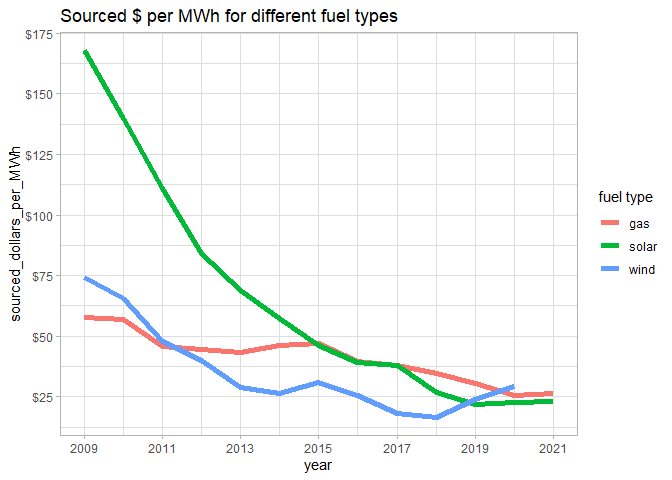
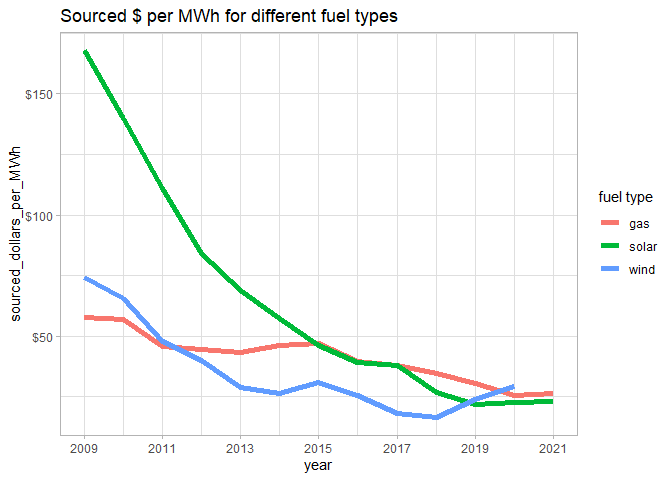
added a new chart

diff --git a/content/2022_05_03_solar_wind_utilities/2022_05_03_solar.html b/content/2022_05_03_solar_wind_utilities/2022_05_03_solar.html
@@ -480,7 +480,7 @@ major y axis interval 25 with minor 5.</p>
 <pre class="r"><code>average_cost_long%&gt;%
   ggplot(aes(year,sourced_dollars_per_MWh, color=fuel_type))+
   geom_line(size=2)+
-  scale_y_continuous(breaks=seq(0, 200, by=25),labels=scales::dollar_format())+
+  scale_y_continuous(breaks=seq(0, 200, by=50),labels=scales::dollar_format())+
   scale_x_continuous(breaks=seq(2009, 2021, by=2))+
   ggtitle(&quot;Sourced $ per MWh for different fuel types&quot;)+
   theme(axis.title.x=element_blank(), 
@@ -492,7 +492,56 @@ major y axis interval 25 with minor 5.</p>
         )+
   labs(color=&quot;fuel type&quot;)+
   theme_light()</code></pre>
[2 lines of base64/hex data omitted]
+## Explore the other data sets</p>
+<p>Starting with capacity, units are in gigawatts:</p>
+<pre class="r"><code>capacity</code></pre>
+<pre><code>## # A tibble: 49 x 7
+##    type   year standalone_prior hybrid_prior standalone_new hybrid_new total_gw
+##    &lt;chr&gt; &lt;dbl&gt;            &lt;dbl&gt;        &lt;dbl&gt;          &lt;dbl&gt;      &lt;dbl&gt;    &lt;dbl&gt;
+##  1 Solar  2014             25.1          0             19.5        0       44.6
+##  2 Solar  2015             33.1          0             23.8        0       56.8
+##  3 Solar  2016             37.0          0             83.3        0      120. 
+##  4 Solar  2017             83.6          0            105.         0      189. 
+##  5 Solar  2018            138.          11.6          116.        17.7    283. 
+##  6 Solar  2019            156.          43.0          110.        58.6    367. 
+##  7 Solar  2020            196.          96.0          108.        63.3    462. 
+##  8 Wind   2014             66.7          0             29.2        0       95.9
+##  9 Wind   2015             65.0          0             44.6        0      110. 
+## 10 Wind   2016             74.8          0             66.9        0      142. 
+## # ... with 39 more rows</code></pre>
+<p>Again, the data must be reshaped.</p>
+<pre class="r"><code>capacity_long &lt;- capacity %&gt;%
+  pivot_longer(
+    cols=standalone_prior:hybrid_new,
+    names_to = &quot;category&quot;,
+    values_to = &quot;gigawatts&quot;,
+    values_drop_na = TRUE)
+
+capacity_long</code></pre>
+<pre><code>## # A tibble: 148 x 5
+##    type   year total_gw category         gigawatts
+##    &lt;chr&gt; &lt;dbl&gt;    &lt;dbl&gt; &lt;chr&gt;                &lt;dbl&gt;
+##  1 Solar  2014     44.6 standalone_prior      25.1
+##  2 Solar  2014     44.6 hybrid_prior           0  
+##  3 Solar  2014     44.6 standalone_new        19.5
+##  4 Solar  2014     44.6 hybrid_new             0  
+##  5 Solar  2015     56.8 standalone_prior      33.1
+##  6 Solar  2015     56.8 hybrid_prior           0  
+##  7 Solar  2015     56.8 standalone_new        23.8
+##  8 Solar  2015     56.8 hybrid_new             0  
+##  9 Solar  2016    120.  standalone_prior      37.0
+## 10 Solar  2016    120.  hybrid_prior           0  
+## # ... with 138 more rows</code></pre>
+<p>Now a quick plot, which shows that <code>standalone_prior</code> has
+grown while <code>hybrid_new</code> and <code>hybrid_prior</code> have
+increased since 2017.</p>
+<pre class="r"><code>capacity_long %&gt;%
+  ggplot(aes(x=year,y=gigawatts,fill=category))+
+  geom_bar(position = &#39;dodge&#39;,stat = &#39;identity&#39;)</code></pre>
[1 lines of base64/hex data omitted]
+<p>Now let’s do a side-by-side split multiple, split on new and
+prior.</p>
 </div>
 </div>
 

diff --git a/content/2022_05_03_solar_wind_utilities/2022_05_03_solar.md b/content/2022_05_03_solar_wind_utilities/2022_05_03_solar.md
@@ -143,7 +143,7 @@ Remove the gray background, add a marker for every year, and make the major y ax
 average_cost_long%>%
   ggplot(aes(year,sourced_dollars_per_MWh, color=fuel_type))+
   geom_line(size=2)+
-  scale_y_continuous(breaks=seq(0, 200, by=25),labels=scales::dollar_format())+
+  scale_y_continuous(breaks=seq(0, 200, by=50),labels=scales::dollar_format())+
   scale_x_continuous(breaks=seq(2009, 2021, by=2))+
   ggtitle("Sourced $ per MWh for different fuel types")+
   theme(axis.title.x=element_blank(), 
@@ -158,3 +158,72 @@ average_cost_long%>%
 ```
 
 ![](2022_05_03_solar_files/figure-html/unnamed-chunk-7-1.png)<!-- -->
+## Explore the other data sets
+
+Starting with capacity, units are in gigawatts:
+
+
+```r
+capacity
+```
+
+```
+## # A tibble: 49 x 7
+##    type   year standalone_prior hybrid_prior standalone_new hybrid_new total_gw
+##    <chr> <dbl>            <dbl>        <dbl>          <dbl>      <dbl>    <dbl>
+##  1 Solar  2014             25.1          0             19.5        0       44.6
+##  2 Solar  2015             33.1          0             23.8        0       56.8
+##  3 Solar  2016             37.0          0             83.3        0      120. 
+##  4 Solar  2017             83.6          0            105.         0      189. 
+##  5 Solar  2018            138.          11.6          116.        17.7    283. 
+##  6 Solar  2019            156.          43.0          110.        58.6    367. 
+##  7 Solar  2020            196.          96.0          108.        63.3    462. 
+##  8 Wind   2014             66.7          0             29.2        0       95.9
+##  9 Wind   2015             65.0          0             44.6        0      110. 
+## 10 Wind   2016             74.8          0             66.9        0      142. 
+## # ... with 39 more rows
+```
+
+Again, the data must be reshaped.
+
+```r
+capacity_long <- capacity %>%
+  pivot_longer(
+    cols=standalone_prior:hybrid_new,
+    names_to = "category",
+    values_to = "gigawatts",
+    values_drop_na = TRUE)
+
+capacity_long
+```
+
+```
+## # A tibble: 148 x 5
+##    type   year total_gw category         gigawatts
+##    <chr> <dbl>    <dbl> <chr>                <dbl>
+##  1 Solar  2014     44.6 standalone_prior      25.1
+##  2 Solar  2014     44.6 hybrid_prior           0  
+##  3 Solar  2014     44.6 standalone_new        19.5
+##  4 Solar  2014     44.6 hybrid_new             0  
+##  5 Solar  2015     56.8 standalone_prior      33.1
+##  6 Solar  2015     56.8 hybrid_prior           0  
+##  7 Solar  2015     56.8 standalone_new        23.8
+##  8 Solar  2015     56.8 hybrid_new             0  
+##  9 Solar  2016    120.  standalone_prior      37.0
+## 10 Solar  2016    120.  hybrid_prior           0  
+## # ... with 138 more rows
+```
+
+Now a quick plot, which shows that `standalone_prior` has grown while `hybrid_new` and `hybrid_prior` have increased since 2017. 
+
+
+```r
+capacity_long %>%
+  ggplot(aes(x=year,y=gigawatts,fill=category))+
+  geom_bar(position = 'dodge',stat = 'identity')
+```
+
+![](2022_05_03_solar_files/figure-html/unnamed-chunk-10-1.png)<!-- -->
+
+Now let's do a side-by-side split multiple, split on new and prior.
+
